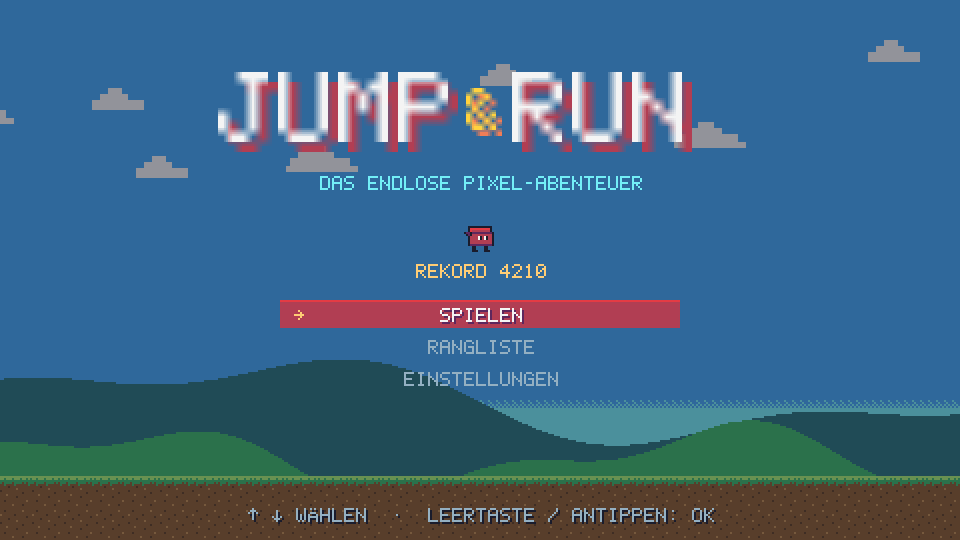
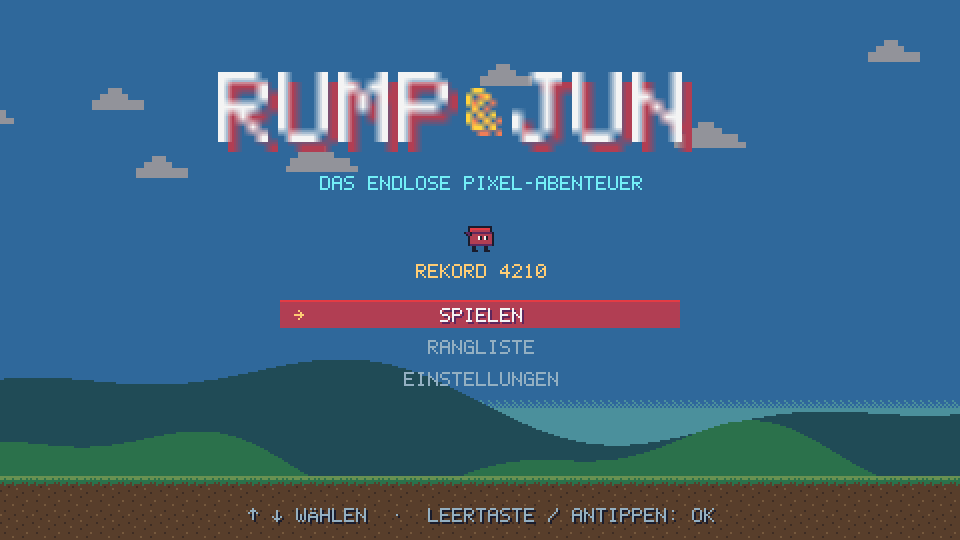
Umbenannt: Jump & Run heißt jetzt Rump & Jun
- Logo im Titelbild, Seitentitel, App-Name (Manifest, Home-Bildschirm)
- README, Spielplan, package.json und Repo-Adresse (mpmamaci/rump-and-jun)
- Speicherschlüssel im Browser: rump-and-jun.*
- Titel-Screenshot neu

Changed region(s): [[0.2188, 0.1185, 0.3125, 0.2963], [0.5312, 0.1185, 0.5938, 0.2963]]

diff --git a/src/render/renderer.js b/src/render/renderer.js
@@ -406,9 +406,9 @@ function drawTitle(ctx, W, H, game, time) {
   ctx.fillStyle = C.k; ctx.globalAlpha = 0.45; ctx.fillRect(0, 0, W, H); ctx.globalAlpha = 1;
   // Logo mit leichtem Wippen
   const bob = R(Math.sin(time * 2) * 2);
-  drawText(ctx, 'JUMP', W / 2 - 16, 36 + bob, { scale: 5, align: 'right', color: C.w, shadow: C.r });
+  drawText(ctx, 'RUMP', W / 2 - 16, 36 + bob, { scale: 5, align: 'right', color: C.w, shadow: C.r });
   drawText(ctx, '&', W / 2, 44 + bob, { scale: 3, align: 'center', color: C.q, shadow: C.o });
-  drawText(ctx, 'RUN', W / 2 + 16, 36 + bob, { scale: 5, color: C.w, shadow: C.r });
+  drawText(ctx, 'JUN', W / 2 + 16, 36 + bob, { scale: 5, color: C.w, shadow: C.r });
   drawText(ctx, 'DAS ENDLOSE PIXEL-ABENTEUER', W / 2, 88, { align: 'center', color: C.a });
   // kleiner Held, der vor dem Logo läuft
   drawSprite(ctx, 'player', 'run', time, W / 2 - 8, 110);

diff --git a/src/audio/audio.js b/src/audio/audio.js
@@ -9,11 +9,11 @@ let master, sfxBus, musicBus, noiseBuffer;
 const settings = loadSettings();
 
 function loadSettings() {
-  try { return { sound: true, music: true, ...JSON.parse(localStorage.getItem('jump-and-run.settings') || '{}') }; }
+  try { return { sound: true, music: true, ...JSON.parse(localStorage.getItem('rump-and-jun.settings') || '{}') }; }
   catch { return { sound: true, music: true }; }
 }
 function saveSettings() {
-  try { localStorage.setItem('jump-and-run.settings', JSON.stringify(settings)); } catch { /* egal */ }
+  try { localStorage.setItem('rump-and-jun.settings', JSON.stringify(settings)); } catch { /* egal */ }
 }
 export const audioSettings = settings;
 

diff --git a/index.html b/index.html
@@ -8,11 +8,11 @@
   <meta name="mobile-web-app-capable" content="yes">
   <meta name="apple-mobile-web-app-capable" content="yes">
   <meta name="apple-mobile-web-app-status-bar-style" content="black-translucent">
-  <meta name="apple-mobile-web-app-title" content="Jump & Run">
+  <meta name="apple-mobile-web-app-title" content="Rump & Jun">
   <link rel="manifest" href="manifest.webmanifest">
   <link rel="icon" type="image/png" href="assets/icons/icon-192.png">
   <link rel="apple-touch-icon" href="assets/icons/icon-180.png">
-  <title>Jump and Run</title>
+  <title>Rump & Jun</title>
   <link rel="stylesheet" href="styles/main.css">
 </head>
 <body>

diff --git a/src/storage/touch-layout.js b/src/storage/touch-layout.js
@@ -1,5 +1,5 @@
 // Anordnung der Touch-Buttons merken: 'side' (neben dem Bild) oder 'overlay' (darüber)
-const KEY = 'jump-and-run.touch-layout';
+const KEY = 'rump-and-jun.touch-layout';
 
 export function loadTouchLayout() {
   try { return localStorage.getItem(KEY) === 'overlay' ? 'overlay' : 'side'; } catch { return 'side'; }

diff --git a/src/storage/leaderboard.js b/src/storage/leaderboard.js
@@ -11,7 +11,7 @@ export const MAX_ENTRIES = 10;
 const sortEntries = list => list.sort((a, b) => b.score - a.score || b.meters - a.meters);
 
 export class LocalStore {
-  constructor(key = 'jump-and-run.leaderboard') {
+  constructor(key = 'rump-and-jun.leaderboard') {
     this.key = key;
   }
 

diff --git a/src/storage/best.js b/src/storage/best.js
@@ -1,5 +1,5 @@
 // Persönlicher Rekord im Browser. Wird in M5 durch das Leaderboard ersetzt.
-const KEY = 'jump-and-run.best';
+const KEY = 'rump-and-jun.best';
 
 export function loadBest() {
   try { return Number(localStorage.getItem(KEY)) || 0; } catch { return 0; }

diff --git a/src/storage/skin.js b/src/storage/skin.js
@@ -1,5 +1,5 @@
 // Gewählten Skin im Browser merken ('' = Standard)
-const KEY = 'jump-and-run.skin';
+const KEY = 'rump-and-jun.skin';
 
 export function loadSkinChoice() {
   try { return localStorage.getItem(KEY) || ''; } catch { return ''; }

diff --git a/src/storage/tempo.js b/src/storage/tempo.js
@@ -1,5 +1,5 @@
 // Gewählte Tempo-Stufe im Browser merken
-const KEY = 'jump-and-run.tempo';
+const KEY = 'rump-and-jun.tempo';
 
 export function loadTempo(max) {
   try {

diff --git a/README.md b/README.md
@@ -1,8 +1,8 @@
 <div align="center">
 
-<img src="assets/icons/icon-192.png" alt="Jump & Run Icon" width="96" height="96">
+<img src="assets/icons/icon-192.png" alt="Rump & Jun Icon" width="96" height="96">
 
-# Jump & Run
+# Rump & Jun
 
 **Ein endloses Pixel-Art-Jump-and-Run für den Browser.**
 Die Strecke scrollt von selbst, wird immer schneller und hört nie auf. Wie weit kommst du?
@@ -33,7 +33,7 @@ Die Strecke scrollt von selbst, wird immer schneller und hört nie auf. Wie weit
 
 ## Über das Spiel
 
-Jump & Run verbindet ein klassisches Jump and Run mit der Endlos-Idee von *The Impossible Game*. Du läufst, springst und kletterst durch eine Welt, die beim Spielen entsteht, während dich der linke Bildrand vor sich hertreibt.
+Rump & Jun verbindet ein klassisches Jump and Run mit der Endlos-Idee von *The Impossible Game*. Du läufst, springst und kletterst durch eine Welt, die beim Spielen entsteht, während dich der linke Bildrand vor sich hertreibt.
 
 - 🏃 **Endlose Strecke** aus 37 handgebauten Abschnitten in 5 Schwierigkeitsstufen. Das Tempo steigt mit jedem Meter.
 - 🧗 **Parkour** mit Wandsprung, Wandrutschen und Sprungfedern.
@@ -71,8 +71,8 @@ Jump & Run verbindet ein klassisches Jump and Run mit der Endlos-Idee von *The I
 Voraussetzung ist [Node.js](https://nodejs.org) ab Version 18. Zum Spielen und Entwickeln werden keine weiteren Pakete benötigt.
 
 ```bash
-git clone https://github.com/mpmamaci/jump-and-run.git
-cd jump-and-run
+git clone https://github.com/mpmamaci/rump-and-jun.git
+cd rump-and-jun
 npm run dev
 ```
 
@@ -184,7 +184,7 @@ Der Build
 ## Projektstruktur
 
 ```
-jump-and-run/
+rump-and-jun/
 ├── index.html               Einstiegsseite
 ├── manifest.webmanifest     Web-App-Manifest (Home-Bildschirm, Vollbild)
 ├── styles/main.css          Seiten- und Touch-Layout

diff --git a/docs/PLAN.md b/docs/PLAN.md
@@ -1,4 +1,4 @@
-# Spielplan: Endless Jump & Run
+# Spielplan: Rump & Jun (Endless Jump and Run)
 
 > Lebendes Dokument. Wir passen es gemeinsam an, wenn sich Ideen ändern.
 
